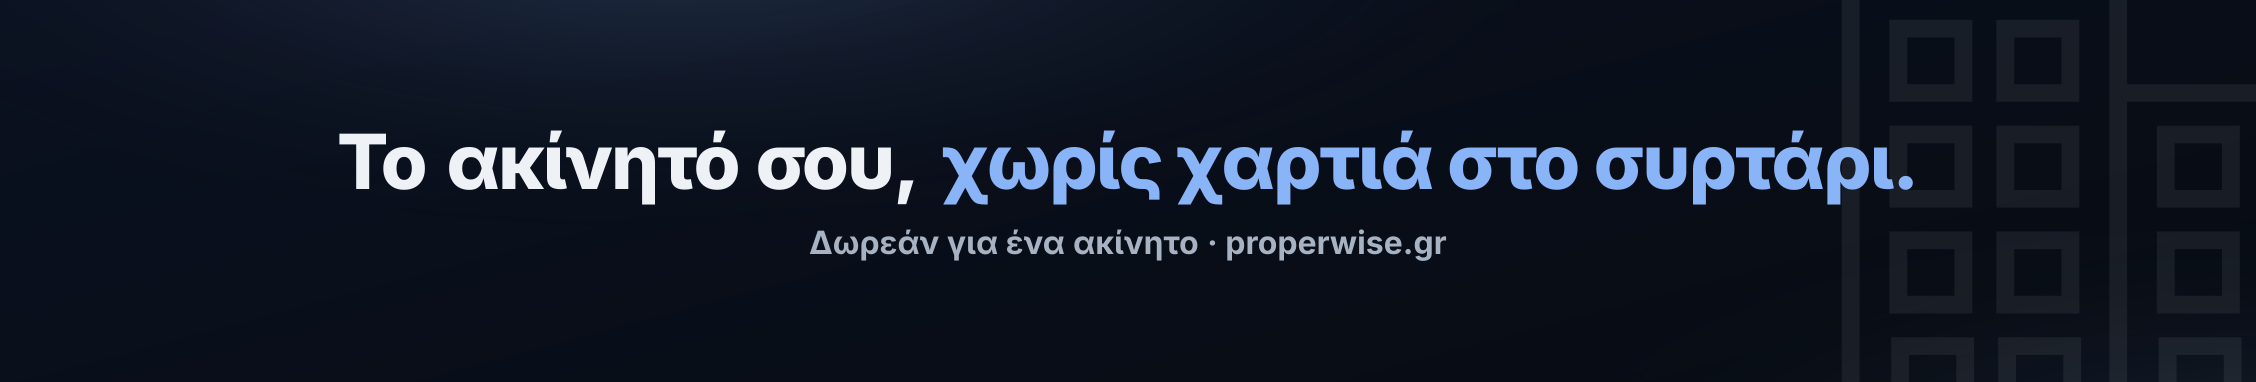
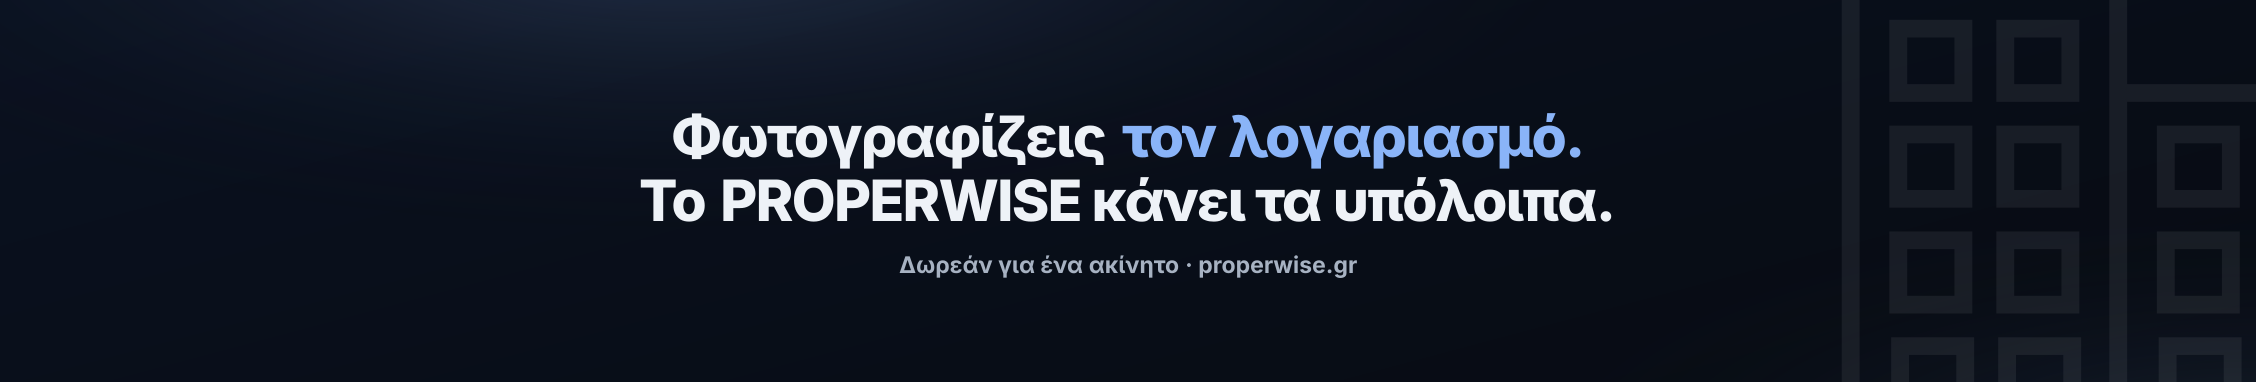
Εξώφυλλα προφίλ με τον τίτλο της αρχικής, όχι με δεύτερη ατάκα
«Φωτογραφίζεις τον λογαριασμό. Το PROPERWISE κάνει τα υπόλοιπα.» σε δύο
γραμμές, όπως στο site, για LinkedIn, Facebook, X και Creem.

Claude-Session: https://claude.ai/code/session_01FciDzM5oCHC6crgCfFdPE1

Changed region(s): [[0.1241, 0.288, 0.8688, 0.5759], [0.3413, 0.6047, 0.6516, 0.7199]]

diff --git a/scripts/marketing/covers.tsx b/scripts/marketing/covers.tsx
@@ -33,23 +33,24 @@ const mark = (size: number, fill: string) => (
   </svg>
 );
 
-type OgBanner = { width: number; height: number; title: string; accent?: string; sub?: string; lift?: number };
+// Ο τίτλος της αρχικής σελίδας (app/page.tsx), σε δύο γραμμές όπως εκεί: το
+// εξώφυλλο λέει το ίδιο με το site, όχι δεύτερη ατάκα που δεν υπάρχει πουθενά.
+type Line = { text: string; accent?: string };
+type OgBanner = { width: number; height: number; lines: Line[]; sub?: string; lift?: number };
 
 /**
- * Το εξώφυλλο προφίλ (LinkedIn, Facebook, X): ίδιο φόντο και ίδια γραφή με την
- * κάρτα, χωρίς σήμα. Τη θέση του σήματος την παίρνει η εικόνα του προφίλ, που
- * κάθε πλατφόρμα κολλά πάνω στο εξώφυλλο κάτω αριστερά· γι' αυτό το κείμενο
+ * Το εξώφυλλο προφίλ (LinkedIn, Facebook, X, Creem): ίδιο φόντο και ίδια γραφή
+ * με την κάρτα, χωρίς σήμα. Τη θέση του σήματος την παίρνει η εικόνα του
+ * προφίλ, που κάθε πλατφόρμα κολλά πάνω στο εξώφυλλο· γι' αυτό το κείμενο
  * κάθεται στο κέντρο, εκεί που καμία πλατφόρμα δεν το κόβει στο κινητό.
  */
-function ogBanner({ width, height, title, accent, sub, lift = 0 }: OgBanner) {
+function ogBanner({ width, height, lines, sub, lift = 0 }: OgBanner) {
   const { fonts, c } = assets();
   const alpha = (hex: string, a: string) => `${hex}${a}`;
-  // Από το ύψος ΚΑΙ από το πλάτος: το Facebook κόβει τα πλάγια στο κινητό, οπότε
-  // σε ψηλό εξώφυλλο η φράση πρέπει να μένει στο μεσαίο μισό.
-  const stacked = width / height < 3.5;
-  // Σε πλαίσιο πιο ψηλό από του LinkedIn το ύψος θα φούσκωνε τη φράση ως τις
-  // άκρες· με `lift` (Creem) κρατά την αναλογία του LinkedIn, 70% του πλάτους.
-  const size = Math.round(Math.min(height * (stacked ? 0.15 : 0.2), width * (stacked ? 0.055 : lift ? 0.0337 : 0.042)));
+  // Η μακρύτερη γραμμή πιάνει περίπου το 70% του πλάτους (0,039 του πλάτους ανά
+  // στιγμή γραμμάτων για ~33 χαρακτήρες) και οι δύο γραμμές μαζί με τον
+  // υπότιτλο χωρούν στο ύψος, όσο στενό κι αν είναι το πλαίσιο.
+  const size = Math.round(Math.min(height * 0.15, width * 0.039));
   return new ImageResponse(
     (
       <div
@@ -57,7 +58,7 @@ function ogBanner({ width, height, title, accent, sub, lift = 0 }: OgBanner) {
           width: '100%', height: '100%', position: 'relative', display: 'flex', flexDirection: 'column',
           alignItems: 'center', justifyContent: 'center', gap: Math.round(height * 0.05),
           // Το Creem κολλά την εικόνα του προφίλ κάτω ΣΤΟ ΚΕΝΤΡΟ, όχι αριστερά:
-          // εκεί το κείμενο ανεβαίνει, για να μη σκεπαστεί η δεύτερη γραμμή.
+          // εκεί το κείμενο ανεβαίνει, για να μη σκεπαστεί ο υπότιτλος.
           paddingBottom: Math.round(height * lift),
           fontFamily: 'Inter', color: c.text, backgroundColor: c.bg,
           backgroundImage: [
@@ -70,18 +71,25 @@ function ogBanner({ width, height, title, accent, sub, lift = 0 }: OgBanner) {
         <div style={{ position: 'absolute', right: -Math.round(height * 0.2), bottom: -Math.round(height * 0.35), display: 'flex', opacity: 0.07 }}>
           {mark(Math.round(height * 1.4), BRAND_MARK_ON_DARK)}
         </div>
-        {/* Σε ψηλό εξώφυλλο (Facebook, X) η φράση σε δύο γραμμές, ώστε να χωρά στο
-            μεσαίο κομμάτι που δείχνει το κινητό· στο στενό του LinkedIn σε μία. */}
-        <div style={{ display: 'flex', flexDirection: stacked ? 'column' : 'row', alignItems: 'center', gap: stacked ? 0 : Math.round(size * 0.28), fontSize: size, fontWeight: 800, letterSpacing: '-0.025em', lineHeight: 1.1 }}>
-          <div style={{ display: 'flex' }}>{title}</div>
-          {accent && <div style={{ display: 'flex', color: c.accent }}>{accent}</div>}
+        <div style={{ display: 'flex', flexDirection: 'column', alignItems: 'center', fontSize: size, fontWeight: 800, letterSpacing: '-0.03em', lineHeight: 1.12 }}>
+          {lines.map(l => (
+            <div key={l.text + (l.accent ?? '')} style={{ display: 'flex', gap: Math.round(size * 0.26) }}>
+              {l.text && <span>{l.text}</span>}
+              {l.accent && <span style={{ color: c.accent }}>{l.accent}</span>}
+            </div>
+          ))}
         </div>
-        {sub && <div style={{ display: 'flex', fontSize: Math.round(size * 0.42), fontWeight: 600, color: c.muted }}>{sub}</div>}
+        {sub && <div style={{ display: 'flex', fontSize: Math.round(size * 0.4), fontWeight: 600, color: c.muted }}>{sub}</div>}
       </div>
     ),
     { width, height, fonts },
   );
 }
+
+const HEADLINE: Line[] = [
+  { text: 'Φωτογραφίζεις', accent: 'τον λογαριασμό.' },
+  { text: 'Το PROPERWISE κάνει τα υπόλοιπα.' },
+];
 
 const OUT = join(process.cwd(), 'docs/marketing/profil');
 
@@ -98,7 +106,7 @@ const COVERS = [
 (async () => {
   mkdirSync(OUT, { recursive: true });
   for (const c of COVERS) {
-    const img = ogBanner({ width: c.width, height: c.height, lift: c.lift, title: 'Το ακίνητό σου,', accent: 'χωρίς χαρτιά στο συρτάρι.', sub: 'Δωρεάν για ένα ακίνητο · properwise.gr' });
+    const img = ogBanner({ width: c.width, height: c.height, lift: c.lift, lines: HEADLINE, sub: 'Δωρεάν για ένα ακίνητο · properwise.gr' });
     writeFileSync(join(OUT, c.file), Buffer.from(await img.arrayBuffer()));
     console.log(`✓ ${c.file} ${c.width}×${c.height}`);
   }
